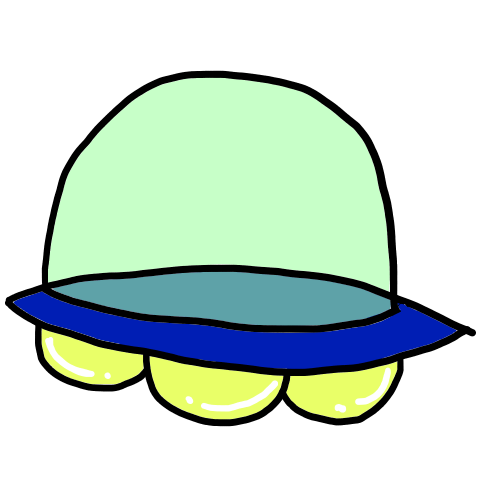
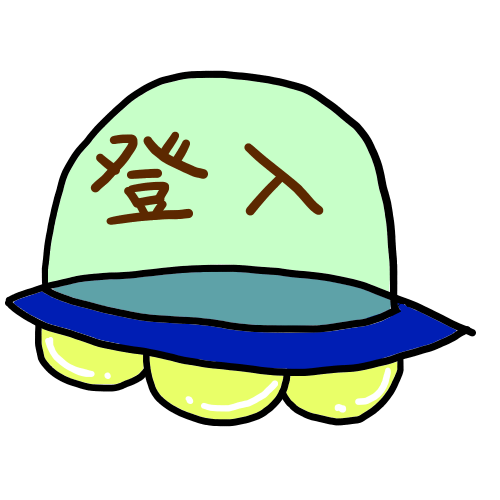
create new login and register html view and css and create new picture
update login button picture
add login background picture
add registerbutton picture
create new login look
create new register look
update login css
update register css

Changed region(s): [[0.18, 0.24, 0.42, 0.45], [0.48, 0.27, 0.66, 0.45]]

diff --git a/plearnet/resources/templates/login.html b/plearnet/resources/templates/login.html
@@ -12,27 +12,45 @@
 
     <div class="login">
         <form name="formLogin">
-            <div class="title">
-                <h1>Plearnet</h1>
-                <br>
-                <label>登入</label>
-            </div>
-            <div class="account">
+            <div class="contents">
+                <div class="left">
+                    <div class="title">
+                        Plearnet
+                        <br>
+                    </div>
+                    <div class="text">
+                        <label>登入</label>
+                    </div>
+                    <div class="inputbox">
+                        <div class="account">
+                            <br>
+                            <input type="text" placeholder="請輸入帳號" value="">
+                        </div>
 
-                <br>
-                <input type="text" placeholder="請輸入帳號" value="">
+                        <div class="password">
+                            <br>
+                            <input type="password" placeholder="請輸入密碼" value="">
+                        </div>
+                        <div class="loginImg">
+                            <img src="../static/img/lb.png" width="100px">
+                        </div>
+                        <div class="registerImg">
+                            <a href="../templates/register.html">
+                                <img src="../static/img/registerbutton.png" width="80px">
+                            </a>
+                        </div>
+                    </div>
+                    <div class="right">
+                        <div class="imgBg">
+                            <img src="../static/img/loginBg.png" width="1000px">
+                        </div>
+                    </div>
+                </div>
             </div>
 
-            <div class="password">
 
-                <br>
-                <input type="password" placeholder="請輸入密碼" value="">
-            </div>
 
-            <div class="loginImg">
-                <a href="../templates/register.html"><img src="../static/img/lb.png" width="100" height="100"
-                        id="lb"></a>
-            </div>
+
         </form>
     </div>
 </body>

diff --git a/plearnet/resources/templates/register.html b/plearnet/resources/templates/register.html
@@ -10,28 +10,33 @@
 
 <body>
     <div class="text">
-        <div class="reg">
-            <h1>Plearnet</h1>
-            <br>
-            <p>
+        <div class="left">
+            <div class="reg">
+                Plearnet
+                <br>
+            </div>
+            <div class="registertext">
                 <label>註冊</label>
-            </p>
-
+            </div>
+            <div class="inputbox">
+                <input type="e-mail" placeholder="電子信箱">
+                <br>
+                <br>
+                <input type="password" placeholder="密碼">
+                <br>
+                <br>
+                <input type="password" placeholder="確認密碼">
+                <br>
+            </div>
+            <div class="button">
+                <img src="../static/img/registerbutton.png" width="100px">
+            </div>
         </div>
-        <div class="content">
-            <input type="e-mail" placeholder="電子信箱">
-            <br>
-            <br>
-            <input type="password" placeholder="密碼">
-            <br>
-            <br>
-            <input type="password" placeholder="確認密碼">
-            <br>
-        </div>
-        <div class="button">
-            <img src="../static/img/lb.png" width="80">
+        <div class="right">
+            <img src="../static/img/loginBg.png" width="1000px">
         </div>
     </div>
+
 
 
 </body>

diff --git a/plearnet/resources/static/css/login.css b/plearnet/resources/static/css/login.css
@@ -4,15 +4,15 @@ body {
 }
 
 .login {
-    text-align: center;
+    text-align: left;
 }
 
 .account {
-    align-items: center;
+    align-items: left;
 }
 
 .password {
-    align-items: center;
+    align-items: left;
 }
 
 .loginImg {
@@ -20,7 +20,35 @@ body {
 }
 
 .title {
-    text-align: center;
+    text-align: left;
     color: white;
+    font-size: 50px;
 }
 
+.text{
+    text-align:start;
+    margin-left: 60px;
+}
+
+.imgBg{
+    position: relative;
+    top: -500px;
+    right: -600px;
+}
+
+.inputbox{
+    text-align: left;
+    padding-top: 100px;
+}
+
+.content{
+    display: flex;
+}
+
+.left{
+    margin-left: 50px;
+}
+
+.registerImg{
+    margin-left: 120px;
+}

diff --git a/plearnet/resources/static/css/register.css b/plearnet/resources/static/css/register.css
@@ -1,19 +1,37 @@
 body {
     background-image: url(../img/bg.jpg);
     height: 100vh;
+    color: white;
 }
 
 .text{
-    text-align: center;
+    display: flex;
 }
 
 .reg{
-    color: white;
-    text-align: center;
+    text-align: left;
+    font-size: 50px;
 }
 
-
+.registertext{
+    text-align: left;
+    margin-left: 60px;
+}
 
 .button{
     margin-left: 100px;
+}
+
+.inputbox{
+    padding-top: 100px;
+}
+
+.right{
+    position: relative;
+    top: -200px;
+    right: -200px;
+}
+
+.left{
+    margin-left: 20px;
 }
